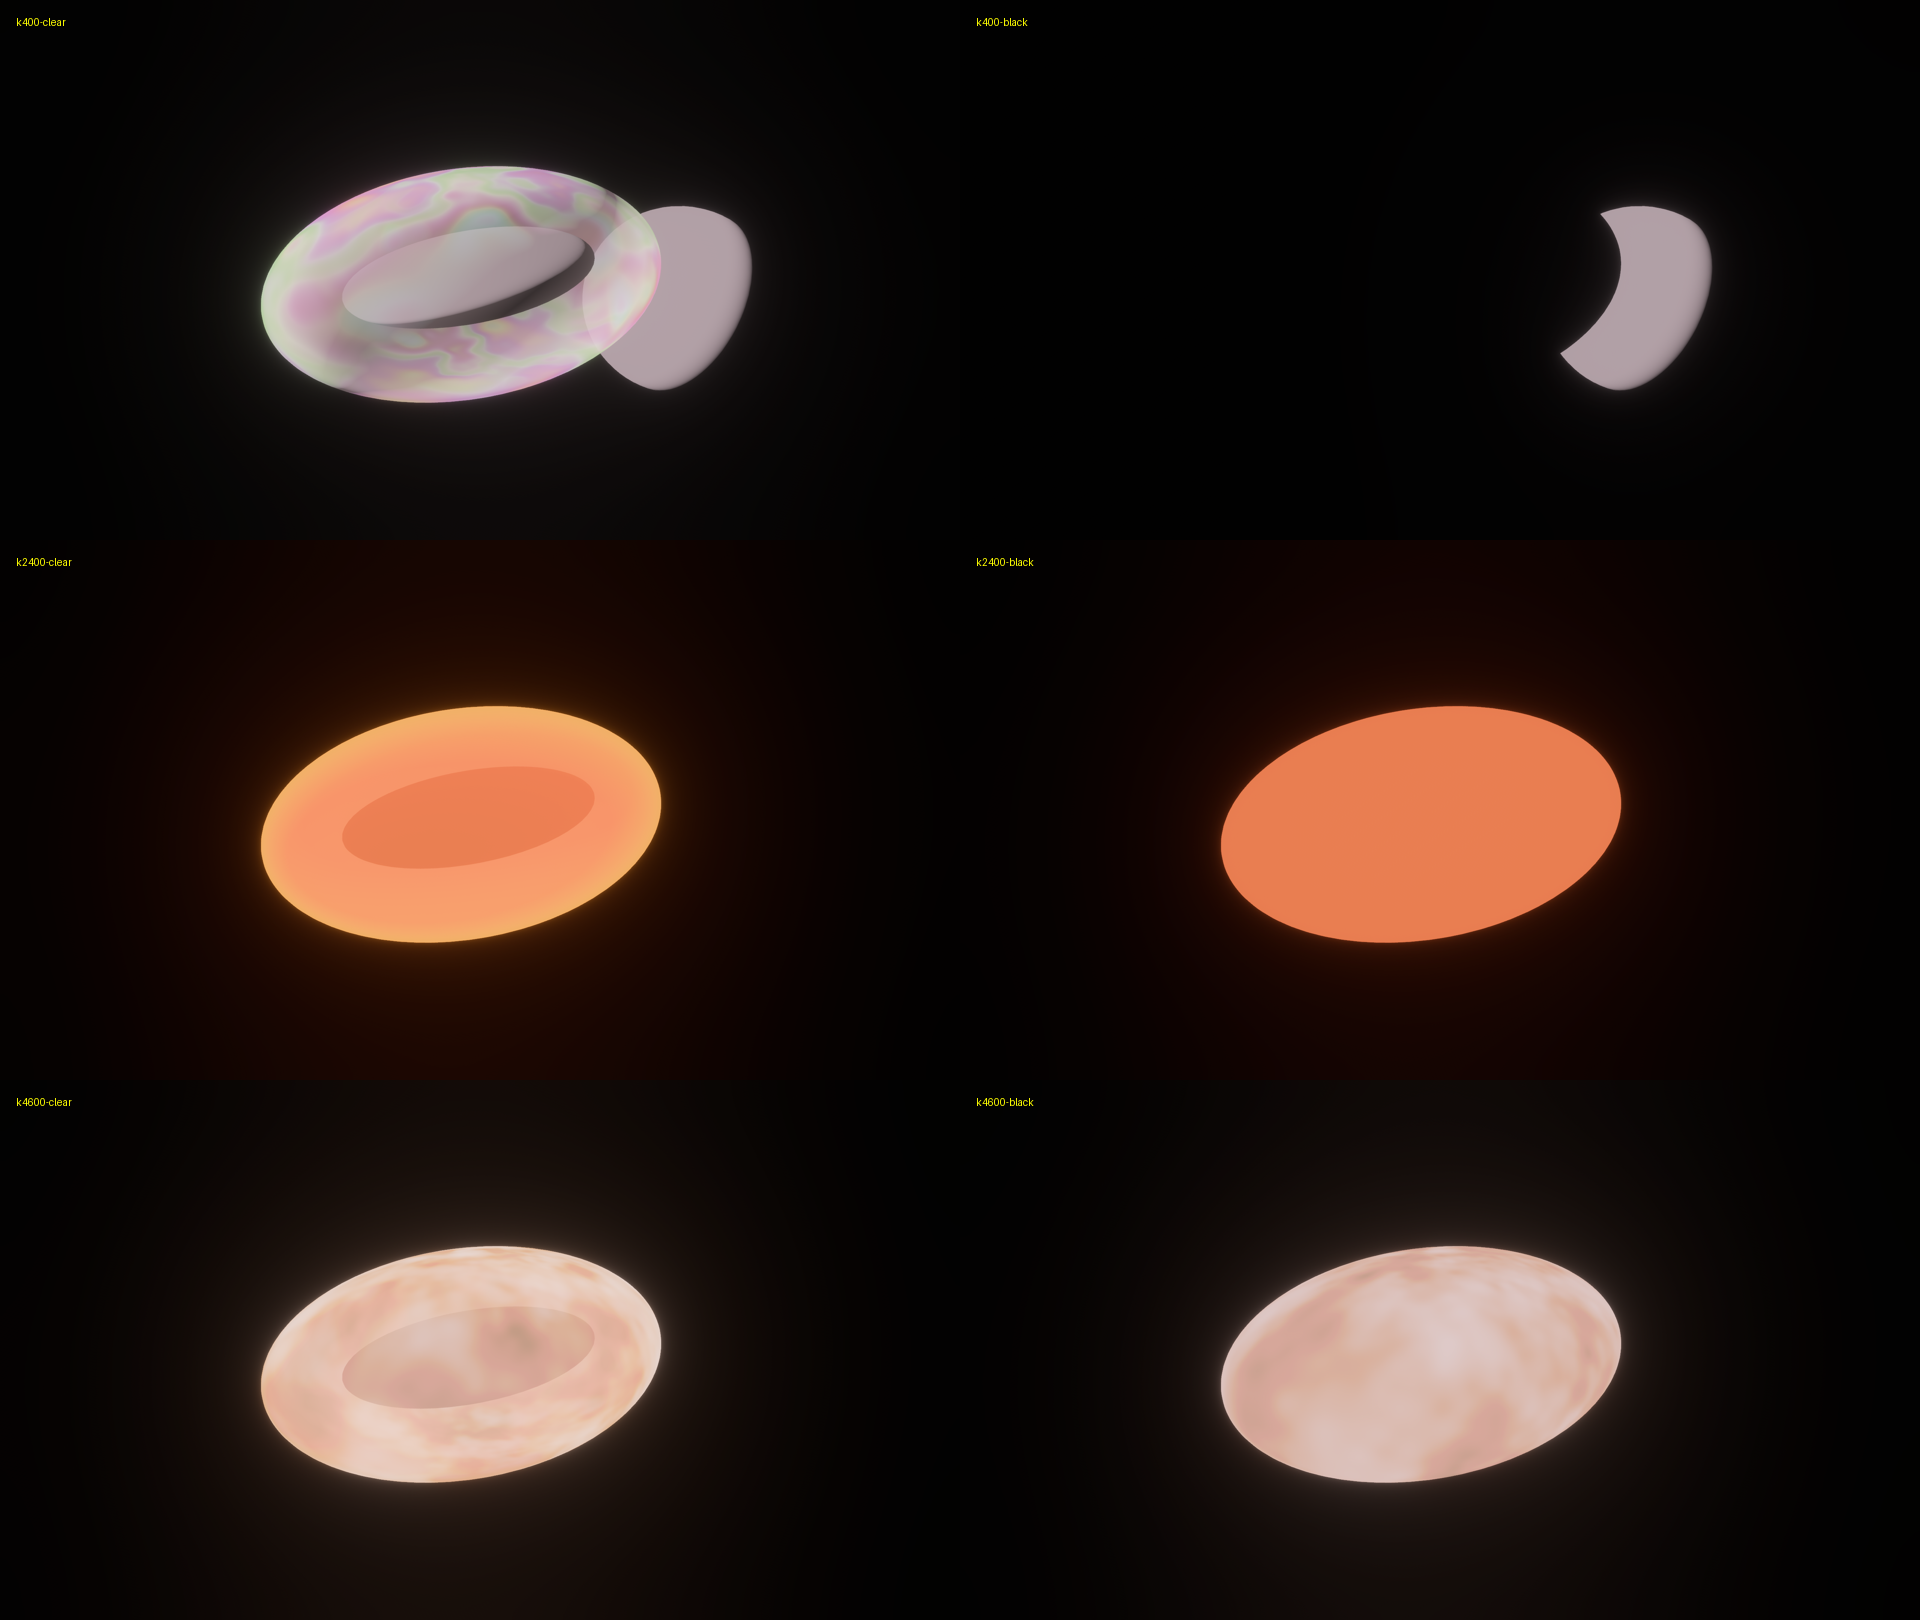
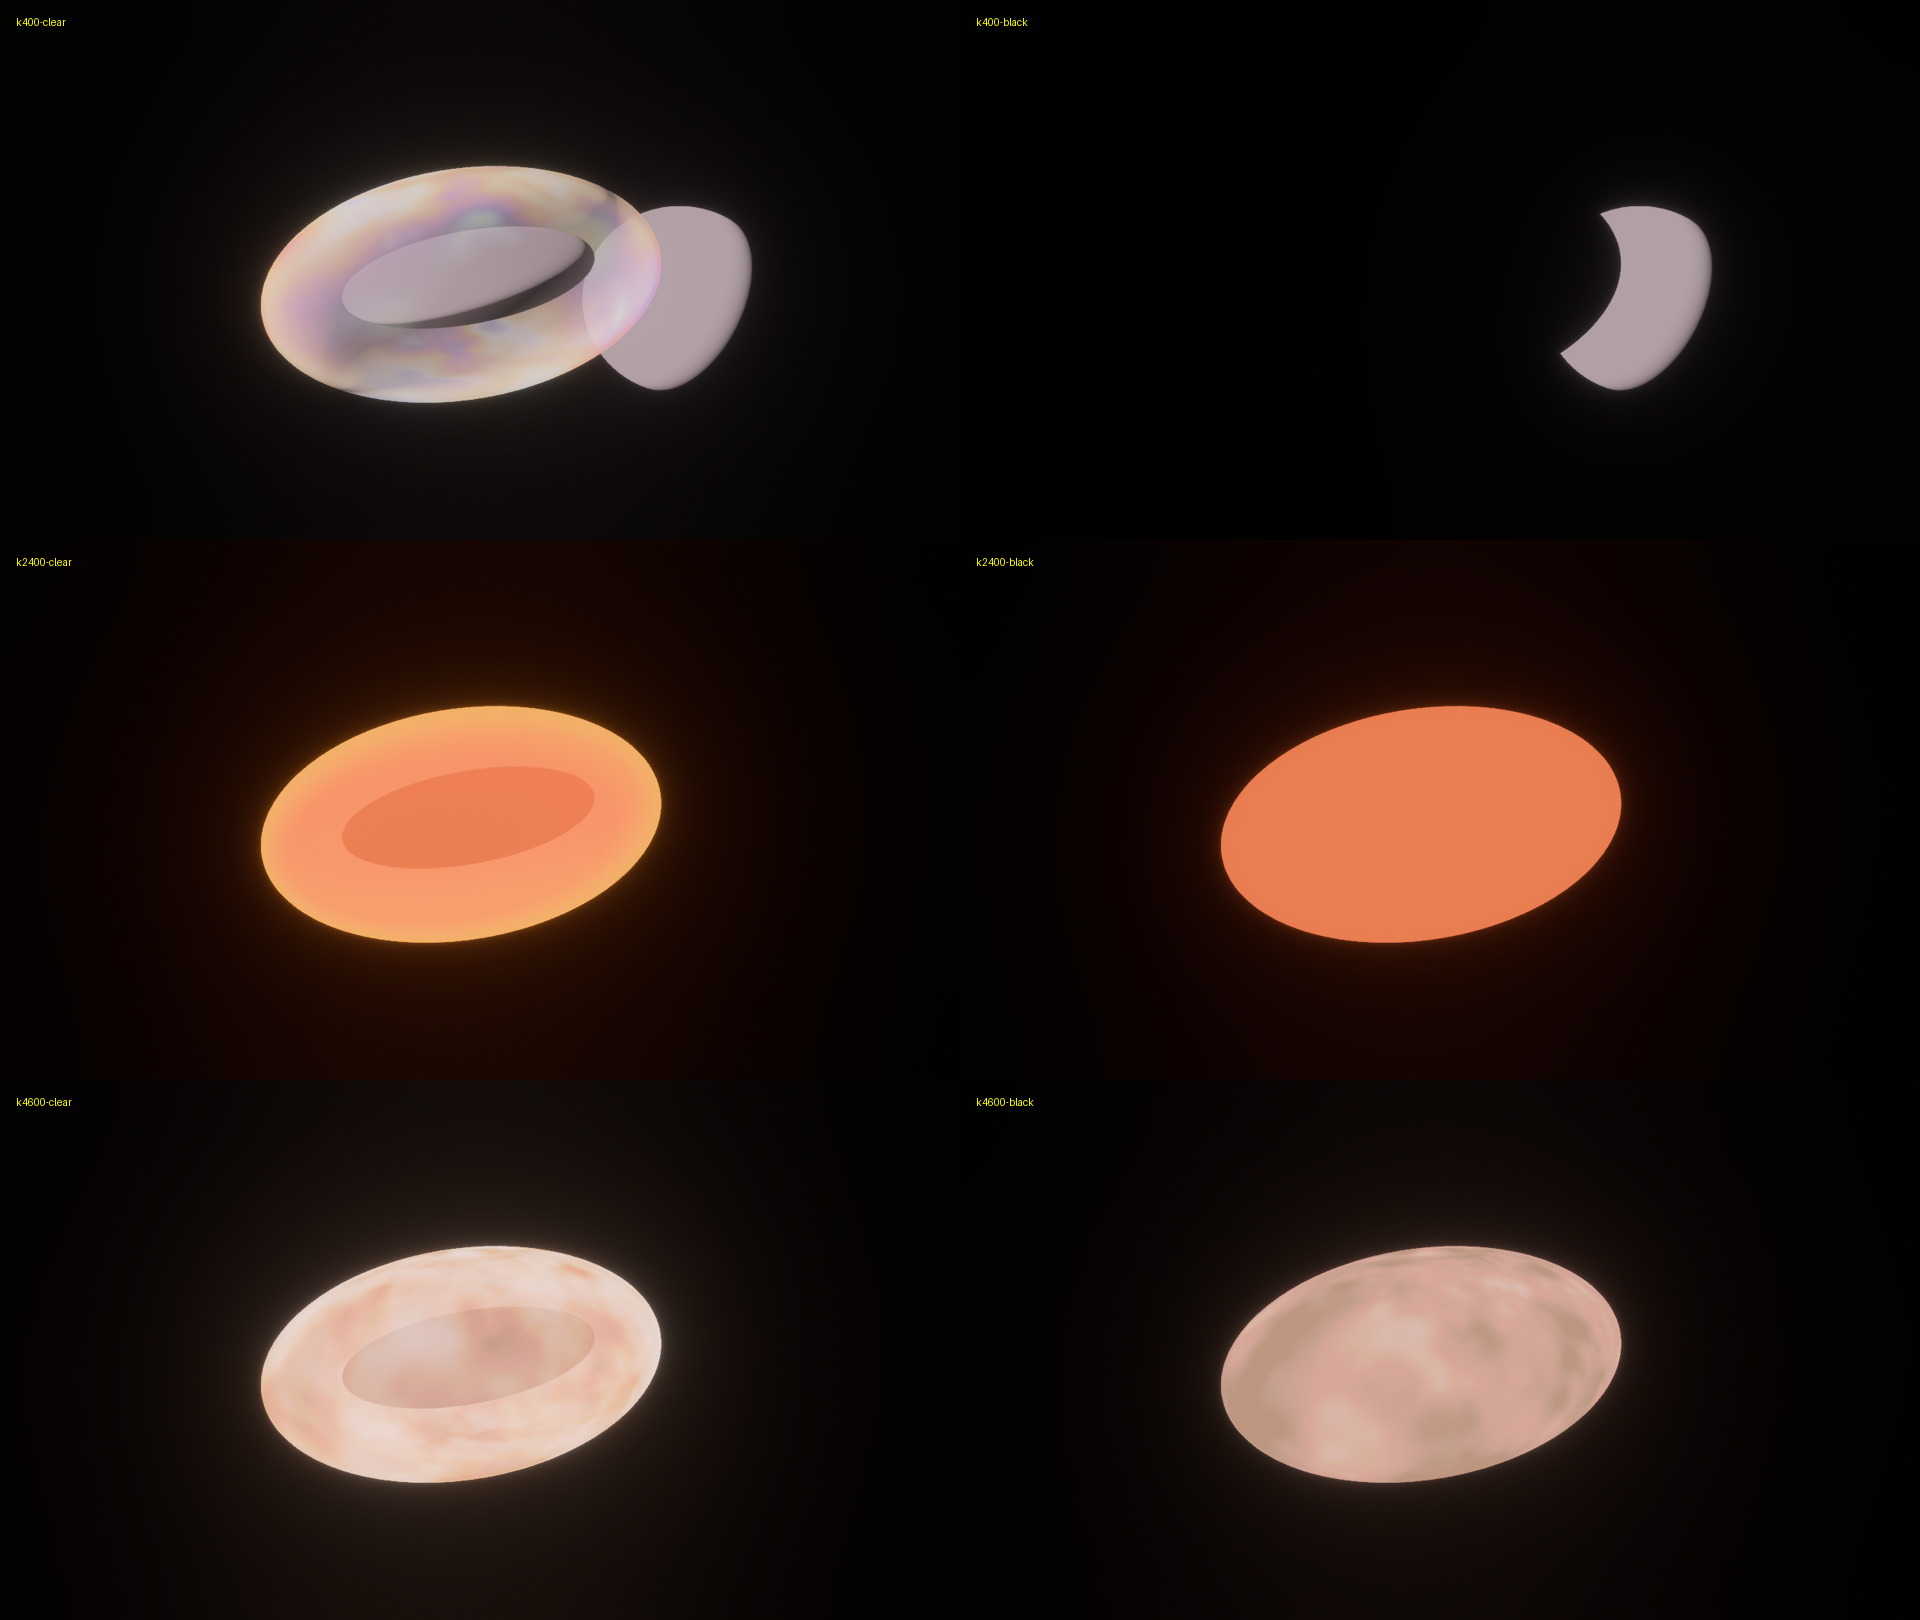
Field shader: review fixes
- Thin film reflectance goes as sin² of half the round-trip phase.
- RAMP, HOT_SPOTS and the ramp's kelvin bounds reach the shader as shader
  defs rather than as a mirror nothing checks.
- The collapse uniform is real seconds; the example's afterglow defaults
  to 300 s, 30's thirty game days at the design rate.
- FieldUniform has no Default: its placeholder drew nothing.
- The photographs are embedded in 32 §The field; re-shot.
- Long lines in the example wrapped by hand.

diff --git a/crates/em-render/src/field_material.rs b/crates/em-render/src/field_material.rs
@@ -28,12 +28,13 @@ pub const HOT_SPOTS: usize = 4;
 /// Temperatures in [`FieldUniform::spectrum`], log-spaced from [`RAMP_MIN_K`] to [`RAMP_MAX_K`].
 pub const RAMP: usize = 32;
 
-/// Below any field that is not dead.
-pub const RAMP_MIN_K: f32 = 100.0;
+/// Below any field that is not dead. Whole kelvin, because the shader is handed it as a
+/// shader def and those are integers.
+pub const RAMP_MIN_K: u32 = 100;
 
 /// A collapse's spike is far hotter than this; in any optical or infrared band it is on the
 /// Rayleigh-Jeans side already, so its color has stopped changing.
-pub const RAMP_MAX_K: f32 = 1.0e6;
+pub const RAMP_MAX_K: u32 = 1_000_000;
 
 /// Mode values in [`FieldUniform::mode`].
 pub const CLEAR: f32 = 0.0;
@@ -42,7 +43,8 @@ pub const BLACK: f32 = 1.0;
 /// The temperature at ramp entry `i`, kelvin.
 pub fn ramp_kelvin(i: usize) -> f32 {
     let t = i as f32 / (RAMP - 1) as f32;
-    (RAMP_MIN_K.ln() + t * (RAMP_MAX_K.ln() - RAMP_MIN_K.ln())).exp()
+    let (lo, hi) = ((RAMP_MIN_K as f32).ln(), (RAMP_MAX_K as f32).ln());
+    (lo + t * (hi - lo)).exp()
 }
 
 /// One ramp entry from linear display light: `log2` per channel.
@@ -84,6 +86,10 @@ pub struct FieldUniform {
     pub hot_spots: [Vec4; HOT_SPOTS],
     /// `(since_s, flash_s, afterglow_s, reach)`. `since_s` negative is a field still standing.
     ///
+    /// **Real seconds**, like `clock_s`: a flash counted in game seconds is over before a frame
+    /// is drawn. The host converts the afterglow's game duration and picks a flash long enough
+    /// to see.
+    ///
     /// The envelope turns into a sphere of debris that grows to `reach` times its size by the
     /// end of the afterglow, and is gone after it.
     pub collapse: Vec4,
@@ -92,23 +98,6 @@ pub struct FieldUniform {
     pub collapse_k: Vec4,
     /// A blackbody at each [`ramp_kelvin`], through the host's bands: see [`ramp_entry`].
     pub spectrum: [Vec4; RAMP],
-}
-
-impl Default for FieldUniform {
-    fn default() -> Self {
-        Self {
-            state: Vec4::new(400.0, 0.0, 0.3, 0.0),
-            mode: Vec4::new(CLEAR, CLEAR, 1.0, 1.0),
-            origin: Vec4::ZERO,
-            to_star: Vec4::Z,
-            starlight: Vec4::ZERO,
-            exposure: Vec4::new(1.0, 5.0, 0.25, 0.0),
-            hot_spots: [Vec4::ZERO; HOT_SPOTS],
-            collapse: Vec4::new(-1.0, 0.5, 30.0, 4.0),
-            collapse_k: Vec4::new(1.0e6, 4600.0, 1.0, 0.0),
-            spectrum: [Vec4::splat(-1000.0); RAMP],
-        }
-    }
 }
 
 /// Which of the three draws a material is. Their order is the order they are drawn in.
@@ -197,12 +186,20 @@ impl Material for FieldMaterial {
         if let Some(depth_stencil) = descriptor.depth_stencil.as_mut() {
             depth_stencil.depth_write_enabled = Some(false);
         }
-        let layer = key.bind_group_data.layer as u8 as u32;
-        // Both stages: they are one file, and the preprocessor refuses an undefined name.
-        let def = ShaderDefVal::UInt("FIELD_LAYER".into(), layer);
-        descriptor.vertex.shader_defs.push(def.clone());
+        // The sizes and bounds the shader shares with this file, handed over rather than
+        // mirrored: a ramp bound that drifted would look every temperature up in the wrong place
+        // and nothing would say so. Both stages, since they are one file and the preprocessor
+        // refuses an undefined name.
+        let defs = [
+            ShaderDefVal::UInt("FIELD_LAYER".into(), key.bind_group_data.layer as u8 as u32),
+            ShaderDefVal::UInt("HOT_SPOTS".into(), HOT_SPOTS as u32),
+            ShaderDefVal::UInt("RAMP".into(), RAMP as u32),
+            ShaderDefVal::UInt("RAMP_MIN_K".into(), RAMP_MIN_K),
+            ShaderDefVal::UInt("RAMP_MAX_K".into(), RAMP_MAX_K),
+        ];
+        descriptor.vertex.shader_defs.extend(defs.iter().cloned());
         if let Some(fragment) = descriptor.fragment.as_mut() {
-            fragment.shader_defs.push(def);
+            fragment.shader_defs.extend(defs);
         }
         Ok(())
     }
@@ -222,13 +219,25 @@ mod tests {
 
     #[test]
     fn the_ramp_spans_its_ends() {
-        assert!((ramp_kelvin(0) - RAMP_MIN_K).abs() < 1e-3);
-        assert!((ramp_kelvin(RAMP - 1) / RAMP_MAX_K - 1.0).abs() < 1e-4);
+        assert!((ramp_kelvin(0) - RAMP_MIN_K as f32).abs() < 1e-3);
+        assert!((ramp_kelvin(RAMP - 1) / RAMP_MAX_K as f32 - 1.0).abs() < 1e-4);
     }
 
     #[test]
     fn the_layers_sort_far_to_near() {
-        let [far, inner, near] = FieldMaterial::layers(FieldUniform::default(), 100.0);
+        let uniforms = FieldUniform {
+            state: Vec4::ZERO,
+            mode: Vec4::ZERO,
+            origin: Vec4::ZERO,
+            to_star: Vec4::Z,
+            starlight: Vec4::ZERO,
+            exposure: Vec4::ZERO,
+            hot_spots: [Vec4::ZERO; HOT_SPOTS],
+            collapse: Vec4::NEG_ONE,
+            collapse_k: Vec4::ZERO,
+            spectrum: [Vec4::ZERO; RAMP],
+        };
+        let [far, inner, near] = FieldMaterial::layers(uniforms, 100.0);
         assert!(far.depth_bias() < inner.depth_bias());
         assert!(inner.depth_bias() < near.depth_bias());
     }

diff --git a/crates/lc-client/examples/field_void.rs b/crates/lc-client/examples/field_void.rs
@@ -13,23 +13,28 @@
 //! |---|---|
 //! | `--field-k <kelvin>` | the field's temperature; 400 by default |
 //! | `--mode clear\|black` | the field's mode |
-//! | `--fill <fraction>` | heat over the limit; by default `(T / LIMIT_K)⁴`, since heat goes as `T⁴` |
-//! | `--spot <strength>` | one beam's hot spot, from the upper left, as a multiple of the field's own power |
+//! | `--fill <fraction>` | heat over the limit; by default `(T / LIMIT_K)⁴`, heat going as `T⁴` |
+//! | `--spot <strength>` | a beam's hot spot from the upper left, as a multiple of the field's power |
 //! | `--switch <progress>` | a switch into `--mode` from the other, frozen at this progress |
-//! | `--collapse <seconds>` | the field collapsed this long ago; `--afterglow <s>` sets how long the afterglow runs |
+//! | `--collapse <seconds>` | the field collapsed this long ago, in real seconds |
+//! | `--afterglow <seconds>` | how long the afterglow runs; 300 by default |
 //! | `--au <distance>` | from a Sun-like star; 1 by default |
 //! | `--mapping <name>` | one of `em_spectra::presets::all()` |
 //! | `--yaw <deg>` | turn the ship |
-//! | `--shot <path> --frames <n> --burst <n>` | photograph `n` consecutive frames after `--frames`, as the client does |
+//! | `--shot <path> --frames <n> --burst <n>` | as the client: `n` consecutive frames after `--frames` |
 
+use bevy::asset::RenderAssetUsages;
 use bevy::camera::Hdr;
 use bevy::core_pipeline::tonemapping::Tonemapping;
 use bevy::post_process::bloom::Bloom;
 use bevy::prelude::*;
-use bevy::render::render_resource::{Extent3d, TextureDimension, TextureFormat, TextureViewDescriptor, TextureViewDimension};
+use bevy::render::render_resource::{
+    Extent3d, TextureDimension, TextureFormat, TextureViewDescriptor, TextureViewDimension,
+};
 use bevy::render::view::screenshot::{Screenshot, save_to_disk};
-use bevy::asset::RenderAssetUsages;
-use em_render::body_surface_material::{BodySurfaceMaterial, BodySurfaceMaterialPlugin, BodySurfaceUniform};
+use em_render::body_surface_material::{
+    BodySurfaceMaterial, BodySurfaceMaterialPlugin, BodySurfaceUniform,
+};
 use em_render::field_material::{
     BLACK, CLEAR, FieldMaterial, FieldMaterialPlugin, FieldUniform, RAMP, ramp_entry, ramp_kelvin,
 };
@@ -87,7 +92,9 @@ impl Args {
         let value = |flag: &str| {
             args.iter().position(|a| a == flag).and_then(|i| args.get(i + 1)).cloned()
         };
-        let number = |flag: &str| value(flag).map(|v| v.parse::<f64>().unwrap_or_else(|_| panic!("{flag} {v}")));
+        let number = |flag: &str| {
+            value(flag).map(|v| v.parse::<f64>().unwrap_or_else(|_| panic!("{flag} {v}")))
+        };
         let mapping = value("--mapping").map_or_else(presets::natural, |name| {
             presets::all()
                 .into_iter()
@@ -107,7 +114,9 @@ impl Args {
             spot: number("--spot").unwrap_or(0.0) as f32,
             switch: number("--switch").map(|p| p as f32),
             collapse: number("--collapse").map(|s| s as f32),
-            afterglow: number("--afterglow").unwrap_or(30.0) as f32,
+            // 30-the-field.md's `collapse_afterglow_s` is thirty game days, about 300 s at the
+            // design rate.
+            afterglow: number("--afterglow").unwrap_or(300.0) as f32,
             au: number("--au").unwrap_or(1.0),
             mapping,
             yaw: number("--yaw").unwrap_or(0.0) as f32,
@@ -232,7 +241,9 @@ fn stage(
     let own_rgb = mapped(&args.mapping, &own);
     let hull_lum = luminance(std::array::from_fn(|c| lit_rgb[c] + own_rgb[c]));
 
-    let sr = |radius: f32, distance: f32| std::f64::consts::PI * (radius as f64 / distance as f64).powi(2);
+    let sr = |radius: f32, distance: f32| {
+        std::f64::consts::PI * (radius as f64 / distance as f64).powi(2)
+    };
     let envelope = envelope_extents();
     let mut samples = [
         (hull_lum, sr(hull_extents().z * 0.6, CAMERA_M)),
@@ -242,7 +253,9 @@ fn stage(
     let reference = meter(&mut samples);
     let stops = 5.0;
 
-    let spectrum = std::array::from_fn(|i| ramp_entry(mapped(&args.mapping, &planck(ramp_kelvin(i) as f64))));
+    let spectrum = std::array::from_fn(|i| {
+        ramp_entry(mapped(&args.mapping, &planck(ramp_kelvin(i) as f64)))
+    });
     let lighting = Lighting {
         to_star,
         starlight: Vec3::from_array(white.map(|c| c as f32)),
@@ -298,13 +311,14 @@ fn stage(
     }
     commands.insert_resource(lighting);
 
+    let standoff = if args.collapse.is_some() { 5.0 } else { 1.0 };
     commands.spawn((
         Camera3d::default(),
         Hdr,
         Bloom::NATURAL,
         Tonemapping::TonyMcMapface,
         // Stood back for a collapse, which grows past where the camera otherwise is.
-        Transform::from_translation(CAMERA_DIR.normalize() * CAMERA_M * if args.collapse.is_some() { 5.0 } else { 1.0 })
+        Transform::from_translation(CAMERA_DIR.normalize() * CAMERA_M * standoff)
             .looking_at(Vec3::ZERO, Vec3::Y),
     ));
 }

diff --git a/lightcone/docs/32-ship-rendering.md b/lightcone/docs/32-ship-rendering.md
@@ -168,11 +168,23 @@ surface across the envelope over `field_switch_s`, from the Mind outward.
 | past 80% of `Q_max` | the glow goes uneven and begins to flicker, faster as it nears the limit |
 | collapse | below |
 
+![A field at 400, 2 400 and 4 600 K, Clear left and Black right](../images/field-temperatures.png)
+
+At 400 K the glow is nothing in the visible: Clear shows the ship and the world behind it through
+the sheen, and Black is a hole in the world. At 2 400 K it is red-orange, Clear's limb the brighter.
+At 4 600 K it is the brightest thing in the frame, and uneven.
+
+![Four consecutive frames of a field at its limit](../images/field-flicker.png)
+
+![A beam's hot spot, and a switch from Clear to Black half swept from the Mind](../images/field-beams-and-switch.png)
+
 **Collapse** is a white flash and a sphere of hot debris expanding and cooling through the colors
 of the afterglow over `collapse_afterglow_s`. Nearby fields brighten when the spike lands on them,
 each at its own retarded time, so a cascade is seen spreading at c. From a distance, a collapse is
 drawn by the photometry: a new point in the sky, as bright as [30-the-field.md](30-the-field.md)
 says.
+
+![A collapse: the flash, then the debris at 40, 180 and 270 s of a 300 s afterglow](../images/field-collapse.png)
 
 ## Beams and plumes
 
